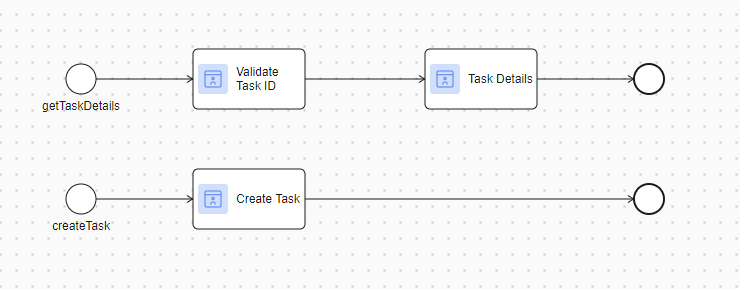
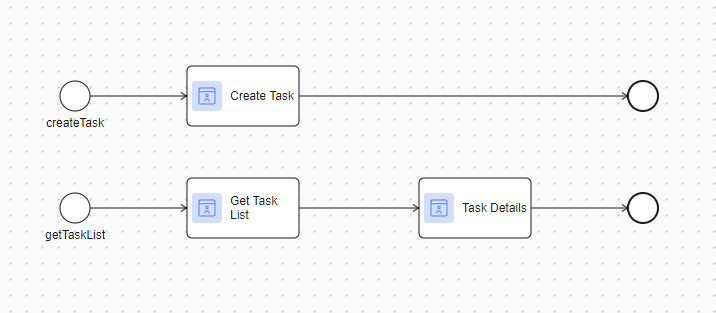
handle feedback

diff --git a/asana-connector-product/README.md b/asana-connector-product/README.md
@@ -14,10 +14,20 @@ Check out the demo implementations we have prepared for the Asana connector:
 
 ![demo-process](demo-process.png).
 
-This demo includes two main processes:
-- getTaskDetails: Validates the input task ID and redirects to the task details screen, where update and delete actions can be performed.
-- createTask: Creates a new task with sample data (e.g., task name, workspace, assignee, and due date).
-
+This demo provides the following features:
+1. Create Task
+- Creates a new task with sample data (e.g., task name, workspace, project, assignee, start date and due date).
+- `Project` and `Assignee` will be fetched base on the selected `Workspace`.
+- If the provided `Personal Access Token (PAT)` is invalid, the `Workspace` data will be empty. 
+![task-creation](task-creation.png).
+2. Task List
+- Shows a table of tasks base on selected `Workspace` and `Project`
+- Two actions can be performed in the `Actions` column: `Delete` and `Update`.
+- Clicking `Update` will navigate user to the `Update` page.
+![task-table](task-table.png).
+3. Update Task
+- Allows editing task details such as the task name, assignee, start date, and due date.
+![task-update](task-update.png).
 ## Setup
 
 In order to use this product you must configure the variables.
